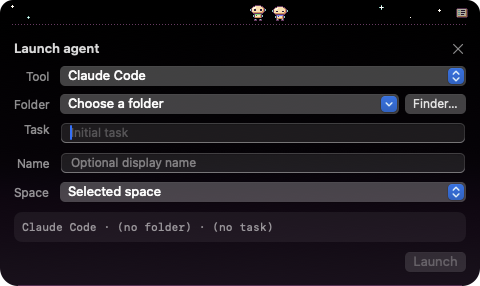
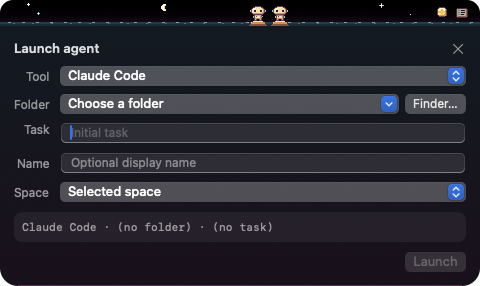
docs: 更新 README 功能說明與截圖
- 新增環礁場景、對話泡泡、島上啟動按鈕的說明
- 重拍動態島、清單、互動面板、啟動表單與設定截圖，新增對話泡泡與一天背景變化截圖

Changed region(s): [[0.0, 0.0, 1.0, 0.5315], [0.3125, 0.0, 0.3438, 0.028]]

diff --git a/README.md b/README.md
@@ -4,16 +4,18 @@
 
 ![動態島收合態](docs/screenshots/island.png)
 
-同時跑多個 agent 時，不用逐一切視窗查看誰在工作、誰在等你回覆、誰出錯了：每個 agent 是一個小機器人，需要注意的永遠釘在最顯眼的位置。
+同時跑多個 agent 時，不用逐一切視窗查看誰在工作、誰在等你回覆、誰出錯了：每個 agent 是站在自己小沙洲上的小機器人，需要注意的永遠釘在最顯眼的位置。
 
 > 自用工具：ad-hoc 簽章、未 notarize，不對外發佈。
 
 ## 功能
 
 - **監看**：每個 agent 一個角色，外觀代表工具、個體色在 session 內固定；動畫之外一律附圖示與文字（Working / Needs you / Done / Idle / Error / Exited / Unknown）。等待使用者與錯誤的 agent 釘在左翼，其餘依優先級排列。
+- **環礁場景**：動態島背景是一片環礁，每個 agent 站在自己的沙洲上，海浪流動、偶爾有魚跳出水面；等待你或出錯的 agent 腳下水面會映出黃光／紅光。天空、海水與日月依本機時間從黎明、白天、黃昏變化到深夜。設定裡關掉 Decorations 即回到純黑。
 - **清單**：點動態島空白處或按 `⌥⌘A` 展開，依「等待使用者 > 錯誤 > 狀態未知 > 執行中 > 完成／閒置」排序。`↑↓` 選擇、`Enter` 打開、`⌘1`–`⌘9` 直接跳、`Esc` 逐層返回。
 - **互動面板**：看近期終端機輸出、傳送訊息、回答 `blocked: question`、用按鍵排回應 permission prompt、中斷目前任務（1.5 秒內二次確認），或一鍵切回原終端機接手。送出狀態明確區分 Delivered / Agent started / Sent · unconfirmed / Failed，永不自動重送。
-- **啟動**：從動態島透過 Herdr 開新的 Claude Code、Codex 或 herdr-core template agent。
+- **啟動**：點動態島上的「＋」（或清單底部的 Launch agent），透過 Herdr 開新的 Claude Code、Codex 或 herdr-core template agent。
+- **對話泡泡**：agent 停下來（Done／Idle／Exited）、等待你或出錯時，該角色下方冒出約 5 秒的狀態泡泡；一次一個，等待與錯誤優先，點泡泡直接打開面板。可在設定關閉。
 - **通知**：agent 等待你或出錯時發 macOS 通知，內容只有「工具 · 專案名」；`⌃⌥⌘A` 直接打開最早開始等待的 agent。
 - **誠實的狀態**：來源斷線或超過 heartbeat 期限時，動態島轉灰並標示「狀態未知」，不從畫面文字猜測狀態。
 - **隱私**：只和本機的 herdr-core、herdr CLI、cmux 溝通；近期輸出只在面板開著時留在記憶體。
@@ -25,6 +27,10 @@
 | 啟動 agent | 設定 |
 | --- | --- |
 | ![啟動表單](docs/screenshots/launch.png) | ![設定視窗](docs/screenshots/settings.png) |
+
+| 對話泡泡 | 一天的環礁（黎明 → 白天 → 正午 → 黃昏 → 深夜） |
+| --- | --- |
+| ![角色下方的狀態泡泡](docs/screenshots/bubble.png) | ![依時間變化的背景](docs/screenshots/daycycle.png) |
 
 角色是原生 16×16 的像素小機器人（Claude Code／Codex／通用三種頭型），每個狀態有對應動畫：
 
